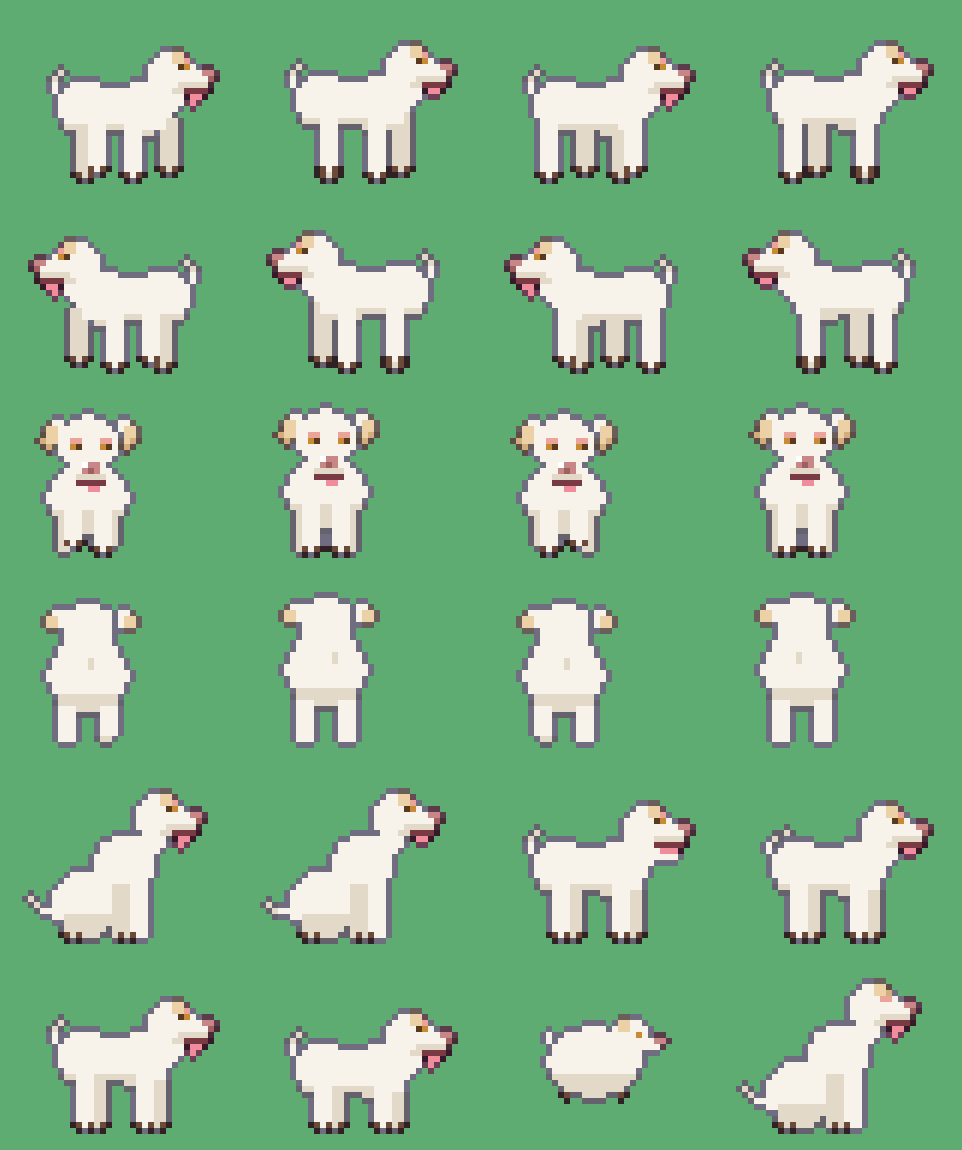
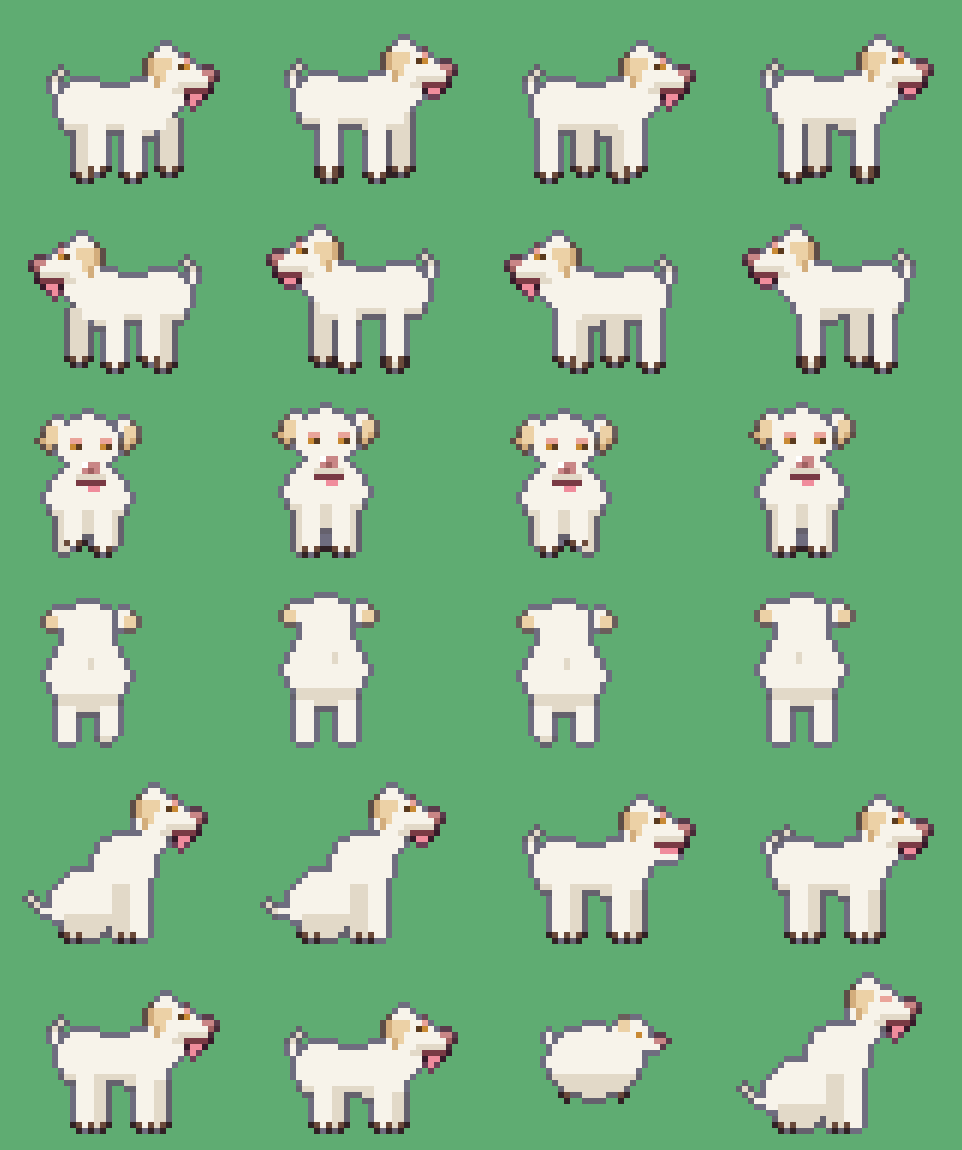
Sprocket interaction (nap wake-up yawn, tail thumps, lean-in pet) + Casper side ear [skip ci]
Claude-Session: https://claude.ai/code/session_01DcRsQ77FYXtVXyNejf31QG

diff --git a/tools/sprocket.py b/tools/sprocket.py
@@ -151,6 +151,44 @@ def back(f):
     return b.im
 
 
+
+def lie(state='sleep', tail=0):
+    """lying down napping (side view, facing right). state: sleep | peek | yawn | happy"""
+    b = B(36, 26, 2, 2); X, R = b.X, b.R
+    EAR, EARD = C('#4a474a'), C('#363337')
+    # tail wrapped by the hips, thumps up when he's happy
+    if tail: ell(X, 4, 12, 2.4, 2.2, K['w']); ell(X, 4.5, 11.5, 1.4, 1.2, K['wL'])
+    else: ell(X, 5, 17, 3, 2, K['w']); ell(X, 4.5, 16.5, 1.6, 1.2, K['wL'])
+    # body loaf: gray back, white belly, back legs tucked
+    ell(X, 13, 16, 9, 4, lambda x, y: K['w'] if y > 17 else K['gL'] if y > 14 else K['g'])
+    for x in range(7, 19, 3): X(x, 13 + (x % 2), K['gD'])
+    ell(X, 9, 19, 3.5, 1.8, K['w']); X(6, 20, K['wS'])
+    # the one front leg stretched forward, head resting on it
+    R(18, 18, 9, 2, K['w']); X(26, 19, K['wS'])
+    # scarf band
+    for y in range(12, 18): X(19, y, K['sc'] if y % 3 else K['scP']); X(20, y, K['scS'])
+    up = -3 if state in ('yawn', 'happy') else 0
+    hx, hy = 24, 14 + up
+    ell(X, hx, hy, 4.6, 3.8, lambda x, y: K['g'] if y < hy - 1 else K['gL'])
+    R(hx - 2, hy - 3, 4, 1, K['gX']); X(hx + 2, hy - 2, K['wL'])                       # frosted forehead
+    ell(X, hx + 3, hy + 2, 2.2, 1.8, K['w'])                                           # muzzle
+    X(hx + 4, hy + 1, K['nose']); X(hx + 5, hy + 1, K['nose'])
+    ell(X, hx + 2.5, hy + 4, 2.2, 1.2, K['beard'])
+    R(hx, hy - 2, 3, 1, K['wL'])                                                       # white brow
+    if state == 'sleep': R(hx + 1, hy, 2, 1, K['gD'])
+    elif state == 'peek': X(hx + 1, hy, K['gD']); X(hx + 2, hy - 1, K['gD']); X(hx + 2, hy, K['eye'])
+    elif state == 'yawn':
+        R(hx + 1, hy - 1, 2, 1, K['gD'])                                               # eyes squeezed shut
+        R(hx + 2, hy + 2, 4, 1, K['nose']); R(hx + 2, hy + 3, 4, 2, C('#7a3a44')); R(hx + 3, hy + 4, 2, 1, C('#f08c9c'))
+        X(hx + 2, hy + 5, K['beard']); X(hx + 5, hy + 5, K['beard'])
+    else: X(hx + 1, hy, K['gD']); X(hx + 2, hy - 1, K['gD']); X(hx + 3, hy, K['gD'])  # happy ^ eye
+    # floppy ear on top
+    for y in range(hy - 3, hy + 4):
+        for x in range(hx - 4, hx - 1): X(x, y, EARD if x == hx - 4 else EAR)
+    X(hx - 2, hy - 1, K['gL']); X(hx - 3, hy + 4, EARD)
+    b.outline(.4)
+    return b.im
+
 if __name__ == '__main__':
     FL = lambda im: im.transpose(Image.FLIP_LEFT_RIGHT)
     R_ = [side(f, near_missing=False) for f in range(6)]          # facing right: his real front leg is the near one
@@ -186,6 +224,48 @@ if __name__ == '__main__':
     for k in range(12): frames.append(scene(U_[k % 6], 48, H - 6 - 23))
     for k in range(12): frames.append(scene(IDLE[[0, 1, 0, 1, 0, 2][k % 6]], 44, H - 6 - 23))
     big = [f.resize((W * 5, H * 5), Image.NEAREST) for f in frames]
+    # ---------- interaction demo: napping -> wake-up yawn + tail thumps + heart; awake -> lean-in pet
+    from PIL import ImageDraw
+    W2, H2 = 96, 44; fr2 = []
+    def sc(spr, x, y, zz=0, heart=0, bang=False, dust=False):
+        im = Image.new('RGBA', (W2, H2), bg)
+        for i in range(W2): im.putpixel((i, H2 - 6), (70, 140, 95, 255))
+        im.alpha_composite(spr, (int(x), int(y))); d = ImageDraw.Draw(im)
+        if zz:      # floating z's
+            for k in range(2):
+                zx, zy = int(x + 30 + k * 4), int(y + 8 - ((zz + k * 4) % 8) - k * 3)
+                d.line((zx, zy, zx + 2, zy), fill='white'); d.point((zx + 1, zy + 1), fill='white'); d.line((zx, zy + 2, zx + 2, zy + 2), fill='white')
+        if heart:   # pink heart floating up
+            hx_, hy_ = int(x + 28), int(y + 6 - heart)
+            for (a_, b_) in ((0, 0), (1, 0), (3, 0), (4, 0), (0, 1), (1, 1), (2, 1), (3, 1), (4, 1), (1, 2), (2, 2), (3, 2), (2, 3)):
+                d.point((hx_ + a_, hy_ + b_), fill=(240, 106, 138, 255))
+            d.point((hx_ + 1, hy_), fill=(255, 210, 220, 255))
+        if bang: d.rectangle((x + 30, y - 2, x + 34, y + 4), fill='white', outline=(43, 29, 58)); d.line((x + 32, y - 1, x + 32, y + 1), fill=(200, 60, 60)); d.point((x + 32, y + 3), fill=(200, 60, 60))
+        if dust:
+            for dx_ in (-2, 2, 4): d.point((int(x + 4 + dx_), H2 - 7), fill=(217, 207, 180, 255))
+        fr2.append(im)
+    ly = H2 - 6 - 22
+    for k in range(8): sc(lie('sleep'), 30, ly, zz=k + 1)
+    for k in range(3): sc(lie('sleep'), 30, ly, bang=True)                    # you press A
+    for k in range(4): sc(lie('peek'), 30, ly)
+    for k in range(6): sc(lie('yawn'), 30, ly)
+    for k in range(8): sc(lie('happy', tail=k % 2), 30, ly, dust=k % 2 == 1)  # tail thump thump
+    for k in range(8): sc(lie('happy'), 30, ly, heart=k)
+    for k in range(6): sc(lie('sleep'), 30, ly, zz=k + 1)
+    # awake: lean into the pet
+    st = H2 - 6 - 23
+    R0 = side(0, near_missing=False, idle=True)
+    for k in range(3): sc(R0, 30, st, bang=True)
+    for k in range(12): sc(side(0, near_missing=False, idle=True, blink=True, wag=k % 2), 30 + (1 if (k // 3) % 2 else 0), st, heart=k if k > 3 else 0)   # leans into your hand, eyes shut, tail wagging
+    for k in range(4): sc(side(0, near_missing=False, idle=True, wag=k % 2), 30, st)
+    b2 = [f.resize((W2 * 5, H2 * 5), Image.NEAREST) for f in fr2]
+    b2[0].save(O + 'sprocket_interact.png', save_all=True, append_images=b2[1:], duration=150, loop=0)
+    p2 = [f.convert('RGB').convert('P', palette=Image.ADAPTIVE) for f in b2]
+    p2[0].save(O + 'sprocket_interact.gif', save_all=True, append_images=p2[1:], duration=150, loop=0)
+    ks = [3, 13, 17, 23, 31, 36, 50, 58]
+    strip = Image.new('RGBA', (len(ks) * W2 * 3, H2 * 3), bg)
+    for i, k in enumerate(ks): strip.alpha_composite(fr2[k].resize((W2 * 3, H2 * 3), Image.NEAREST), (i * W2 * 3, 0))
+    strip.save(O + 'sprocket_interact_frames.png')
     big[0].save(O + 'sprocket_walk.png', save_all=True, append_images=big[1:], duration=150, loop=0)
     pf = [f.convert('RGB').convert('P', palette=Image.ADAPTIVE) for f in big]
     pf[0].save(O + 'sprocket_walk.gif', save_all=True, append_images=pf[1:], duration=150, loop=0)

diff --git a/tools/casper.py b/tools/casper.py
@@ -26,7 +26,10 @@ def head(X, R, hx, hy, mode, f, blink):
     ell(X, 25 + hx, 6 + hy, 4.1, 3.7, K['w'])
     R(26 + hx, 5 + hy, 5, 3, K['w']); R(26 + hx, 7 + hy, 5, 1, K['wS'])           # snout
     X(31 + hx, 5 + hy, K['nose']); X(31 + hx, 6 + hy, K['noseD']); X(30 + hx, 5 + hy, K['nose'])
-    R(23 + hx, 2 + hy, 3, 2, K['w']); R(25 + hx, 2 + hy, 2, 2, K['ear']); X(27 + hx, 3 + hy, K['earS']); X(26 + hx, 4 + hy, K['earS'])  # ear flops forward
+    # semi-floppy ear on the side of the head: white base, cream-tan flap folding down, darker tip
+    for y, x0, x1 in ((2, 22, 24), (3, 21, 24), (4, 21, 24), (5, 21, 23), (6, 22, 23)):
+        for x in range(x0, x1 + 1): X(x + hx, y + hy, K['w'] if y < 3 else K['ear'] if x > x0 else K['earS'])
+    X(24 + hx, 1 + hy, K['w']); X(23 + hx, 1 + hy, K['w']); X(22 + hx, 7 + hy, K['earS'])
     if blink: R(26 + hx, 4 + hy, 2, 1, K['rim'])
     else: X(27 + hx, 4 + hy, K['eye']); X(26 + hx, 4 + hy, K['eyeD']); X(27 + hx, 3 + hy, K['rim'])
     my = 8 + hy

diff --git a/assets/characters/sprocket/README.md b/assets/characters/sprocket/README.md
@@ -16,3 +16,4 @@ The user's dog: a three-legged Shih Tzu, white and gray, with **one front leg mi
 - **Forehead detail:** a white blaze running down the middle to the muzzle, fur-parting strands, and wispy tufts on top of the head (also on the back of the head).
 - **3-leg emphasis:** a labored 6-frame tripod gait. He plants, pushes off the back legs, hops on the one front leg, lands heavily (head and chest dip 2 px, dust puff under the paw), recovers, then pauses briefly. Movement lurches forward mostly on the hop (steps 1,1,5,3,1,0 px).
 - **Side-profile ear:** a clear floppy ear on the side of the head (dark long hair, light front edge, wispy tip), drawn over the head so it reads.
+- **Interaction:** if he's napping (lying down with z's), pressing A makes him open one sleepy eye, do a big yawn, thump his tail a few times (dust puffs), and a heart pops up before he dozes off again. If he's awake, he leans into your hand with his eyes shut and his tail wagging while hearts float up. See `sprocket_interact.gif` / `sprocket_interact_frames.png`; the poses come from `lie()` in `tools/sprocket.py`.

diff --git a/assets/characters/casper/README.md b/assets/characters/casper/README.md
@@ -10,3 +10,4 @@ The user's white Aspin (Filipino street dog). Generated by `tools/casper.py`.
   - row 5: sit, sit wag, bark A, bark B
   - row 6: stand, crouch, tuck (the flip ball, rotated in code), sit blink
 - **`casper_demo.gif`:** he walks in, sits, you interact, he barks, backflips, lands, barks again and sits.
+- **Side-profile ear:** a semi-floppy ear on the side of the head, with a white base and a cream-tan flap folding down.
